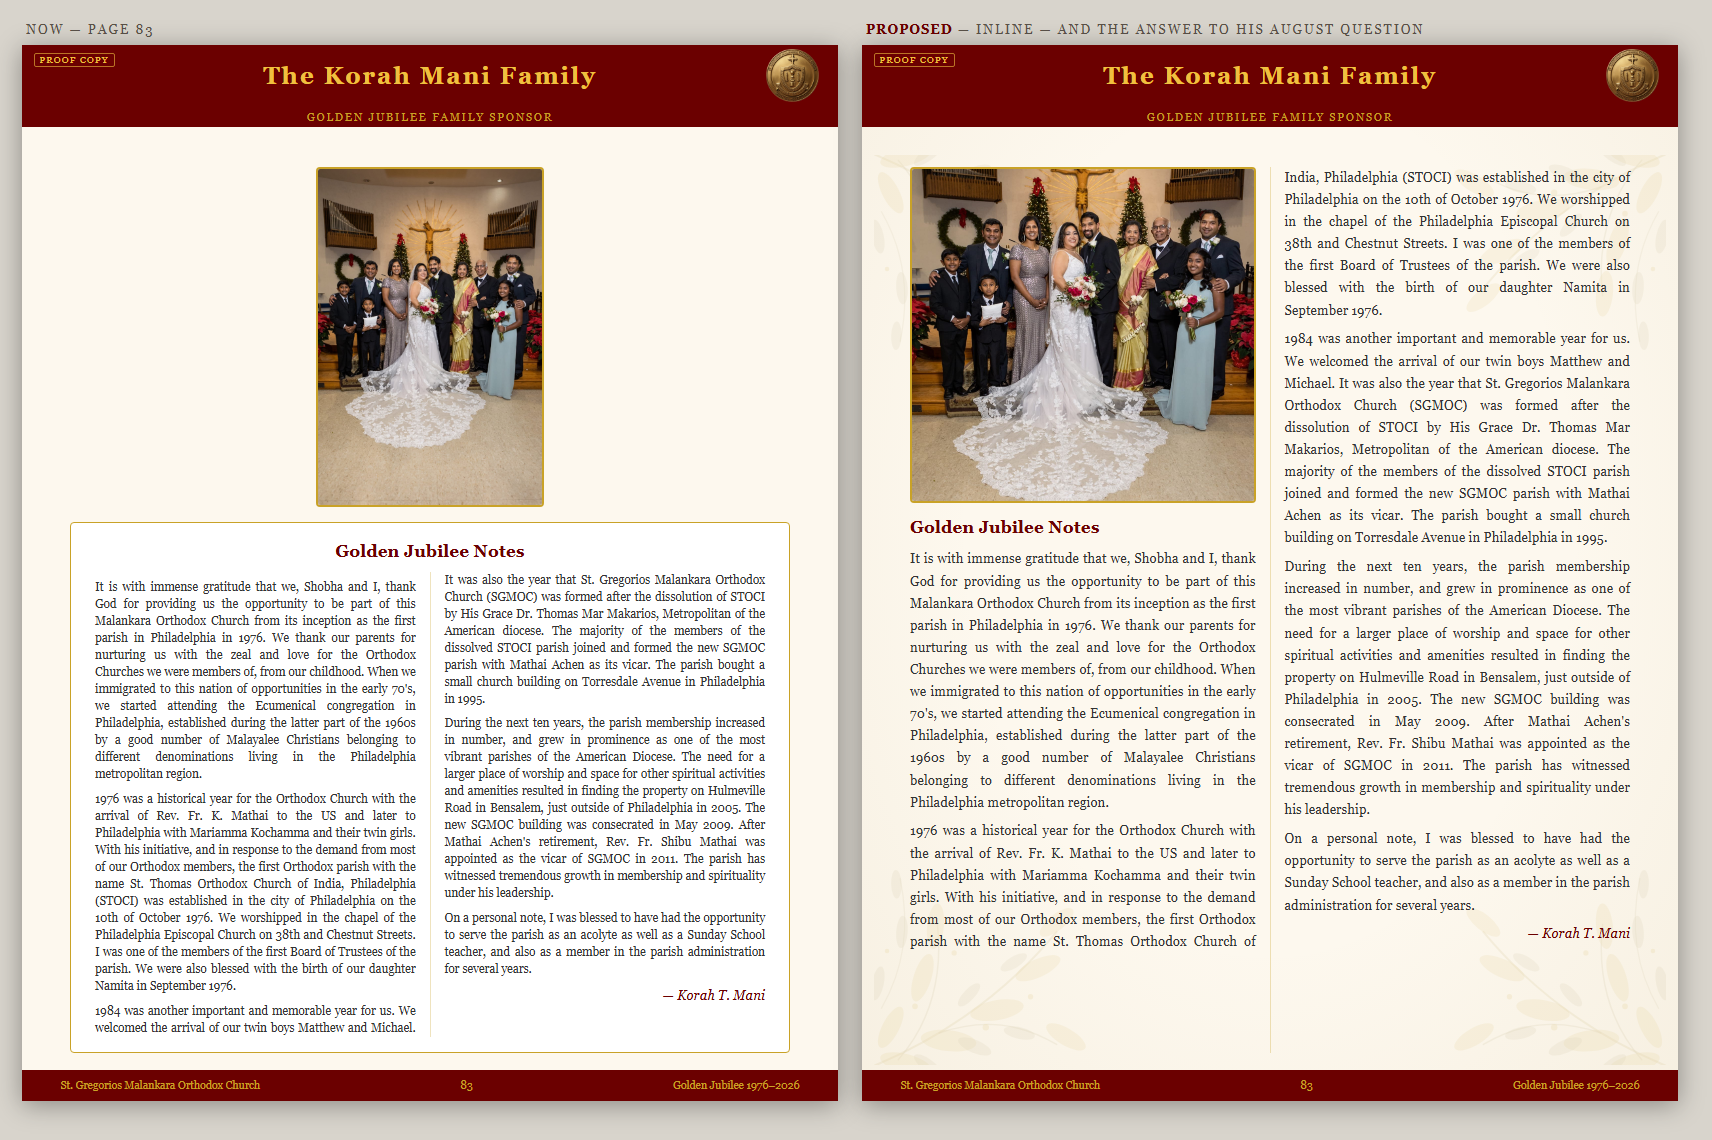
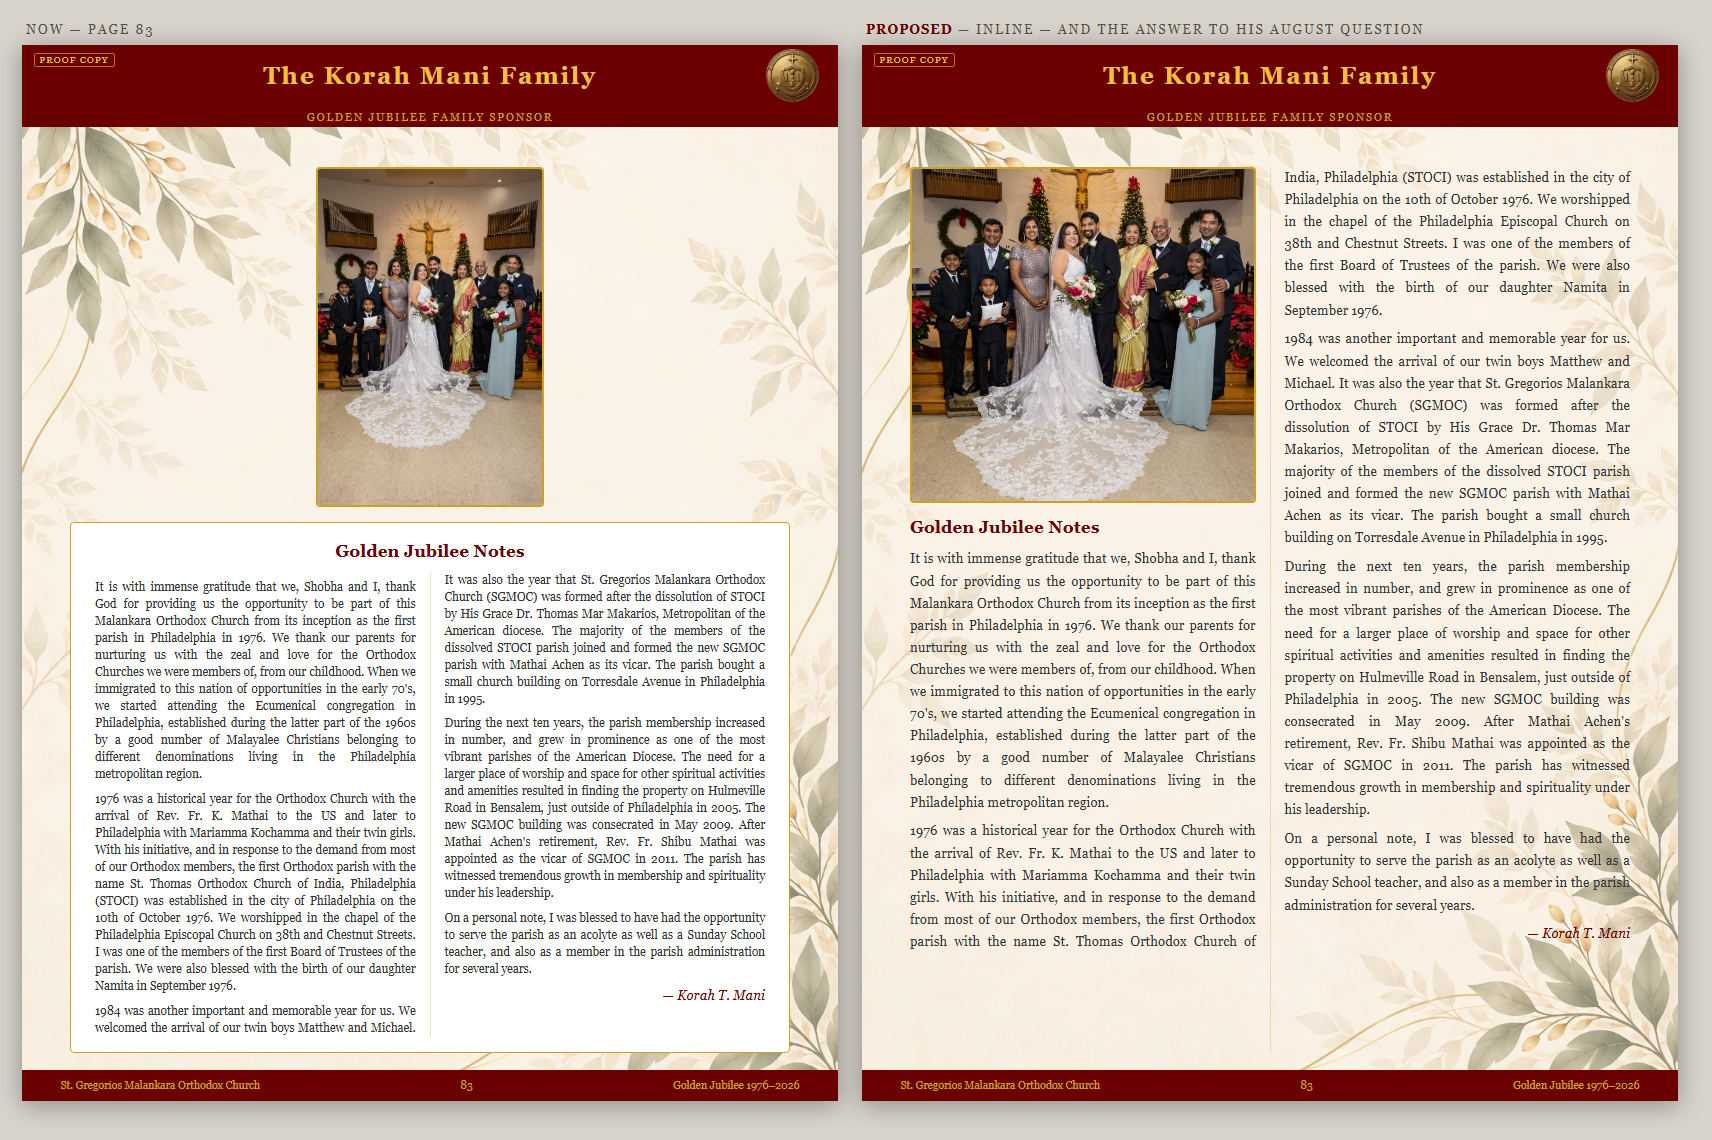
Review sheets rebuilt on Manoj's own background artwork
He sent the background files themselves on 16 September, so the drawn
ornament is gone and his artwork is used instead.

Claude-Session: https://claude.ai/code/session_01VzfEJnHEP3TqbV477Pubb4

diff --git a/review-layout.html b/review-layout.html
@@ -154,9 +154,9 @@
       </div>
       <div class="rule-card">
         <span class="n">Also</span>
-        <h3>Ornament and divider</h3>
-        <p>Denser corner sprays running out to the page edges, a warm aged tone towards the margins, and a gold rule with a centred diamond above the closing line — closer to his 16 September page. Fainter and pulled in on any page carrying writing, so no leaf sits behind a line of type.</p>
-        <span class="count">80 pages</span>
+        <h3>His own background</h3>
+        <p>On 16 September he sent the artwork itself — aged paper, gold and green leaf corners, the SGMOC building, a dove. It replaces the ornament I had drawn. It now runs on every page but the cover and back cover, with his plainer leaf version behind the text-heavy ones, and a gold rule with a centred diamond above each closing line.</p>
+        <span class="count">130 of 132 pages</span>
       </div>
     </div>
   </section>
@@ -169,7 +169,7 @@
     <p class="lede">Left is the page as it stands today; right is the same page rebuilt. Page numbers are unchanged.</p>
 
     <figure>
-      <img src="images/review/compare/babu-varghese.png?v=3" alt="The Babu Varghese Family page, before and after: the photo fills more of the page and a verse sits below it">
+      <img src="images/review/compare/babu-varghese.png?v=4" alt="The Babu Varghese Family page, before and after: the photo fills more of the page and a verse sits below it">
       <figcaption>
         <span class="pg">Page 58 · Babu Varghese</span>
         <span class="what">The page he signed off on. Photo takes more of the page, verse set larger.</span>
@@ -178,7 +178,7 @@
     </figure>
 
     <figure>
-      <img src="images/review/compare/manoj-samuel.png?v=3" alt="The Manoj Samuel Family page, before and after: the photo is cropped to fill the page">
+      <img src="images/review/compare/manoj-samuel.png?v=4" alt="The Manoj Samuel Family page, before and after: the photo is cropped to fill the page">
       <figcaption>
         <span class="pg">Page 87 · Manoj Samuel</span>
         <span class="what">Crop to fill, and the only page it is switched on for — three people, nobody lost.</span>
@@ -187,7 +187,7 @@
     </figure>
 
     <figure>
-      <img src="images/review/compare/george-varghese.png?v=3" alt="The George Varghese Family page, before and after: photo kept whole with a verse added below">
+      <img src="images/review/compare/george-varghese.png?v=4" alt="The George Varghese Family page, before and after: photo kept whole with a verse added below">
       <figcaption>
         <span class="pg">Page 72 · George Varghese</span>
         <span class="what">A large group, so the photo stays whole and a verse fills the space instead.</span>
@@ -196,16 +196,16 @@
     </figure>
 
     <figure>
-      <img src="images/review/compare/a-o-abraham.png?v=3" alt="The A. O. Abraham Family page, before and after: both photos enlarged with a verse below">
+      <img src="images/review/compare/a-o-abraham.png?v=4" alt="The A. O. Abraham Family page, before and after: both photos enlarged with a verse below">
       <figcaption>
         <span class="pg">Page 48 · A. O. Abraham</span>
-        <span class="what">Both submissions are photographs of framed prints, so the frame rail, mat and glare are now cropped away at source, and the two photos stack instead of sitting side by side — each about 4.4in tall rather than 3.1in wide, with nobody cut off. Still short of his version: his photos are portrait, which means he worked from the family's original files rather than our photographs of the frames.</span>
+        <span class="what">Both submissions are photographs of framed prints, so the frame rail, mat and glare are now cropped away at source, and the two photos stack instead of sitting side by side — each about 4.4in tall rather than 3.1in wide, with nobody cut off. On his background. Still short of his own version, whose photos are portrait because he worked from the family's original files rather than our photographs of the frames.</span>
         <span class="flag hold">Wants the original files</span>
       </figcaption>
     </figure>
 
     <figure>
-      <img src="images/review/compare/jacob-george.png?v=3" alt="The Jacob George Family page, before and after: both photos enlarged with a verse below">
+      <img src="images/review/compare/jacob-george.png?v=4" alt="The Jacob George Family page, before and after: both photos enlarged with a verse below">
       <figcaption>
         <span class="pg">Page 75 · Jacob George</span>
         <span class="what">The page he named. Automatic cropping deleted the baby from the left photo and halved a woman at the edge of the right one.</span>
@@ -214,7 +214,7 @@
     </figure>
 
     <figure>
-      <img src="images/review/compare/betcy-allen.png?v=3" alt="The Betcy Allen Family page, before and after: photo top left with text flowing beside and below it">
+      <img src="images/review/compare/betcy-allen.png?v=4" alt="The Betcy Allen Family page, before and after: photo top left with text flowing beside and below it">
       <figcaption>
         <span class="pg">Page 60 · Betcy Allen</span>
         <span class="what">Inline — the example he sent, rebuilt from our own content.</span>
@@ -223,7 +223,7 @@
     </figure>
 
     <figure>
-      <img src="images/review/compare/korah-mani.png?v=3" alt="The Korah Mani Family page, before and after: photo top left with the full narrative flowing around it">
+      <img src="images/review/compare/korah-mani.png?v=4" alt="The Korah Mani Family page, before and after: photo top left with the full narrative flowing around it">
       <figcaption>
         <span class="pg">Page 83 · Korah Mani</span>
         <span class="what">Inline — and it answers the question uncle asked on 5 August. All 445 words now fit at the normal 10pt, instead of squeezed into small type.</span>
@@ -232,7 +232,7 @@
     </figure>
 
     <figure>
-      <img src="images/review/compare/v-s-mathew.png?v=3" alt="The V. S. Mathew Family page, before and after: photo top left with text flowing beside and below it">
+      <img src="images/review/compare/v-s-mathew.png?v=4" alt="The V. S. Mathew Family page, before and after: photo top left with text flowing beside and below it">
       <figcaption>
         <span class="pg">Page 118 · V. S. Mathew</span>
         <span class="what">Photo across the full width, writing in two columns beneath it. Inline was tried here first and was wrong: 1,537 characters left the bottom third bare and held the photo to column width. Their second page, p119, was reset at the same time — larger type, no box, filling the page.</span>
@@ -248,7 +248,7 @@
     </div>
     <ol class="asks">
       <li><strong>Two crops need choosing by hand</strong><span class="note">A. O. Abraham and Jacob George. Cropping there is a judgment about which faces may leave the frame — tell me the crop and it takes a minute, or Manoj can send his cropped files.</span></li>
-      <li><strong>Is the ornament right?</strong><span class="note">Mine is drawn to match his; if he sends the file he used, I will swap it in and every page changes at once.</span></li>
+      <li><strong>Which background, and where?</strong><span class="note">He sent eight variants — dove or cross, the SGMOC building or a domed church, and one plain leaf version. The dove-and-church one is on the photo pages and the plain leaf behind the writing; the ministry pages still take the church version, which is heavy behind a dense layout like Sunday School.</span></li>
       <li><strong>Duplicate photos</strong><span class="note">Still waiting on his list, and on the revised pictures he mentioned.</span></li>
       <li><strong>The seven April pages</strong><span class="note">Unanswered from last night: rebuild them on the new templates, and do the family-designed colour pages stay as submitted?</span></li>
     </ol>
